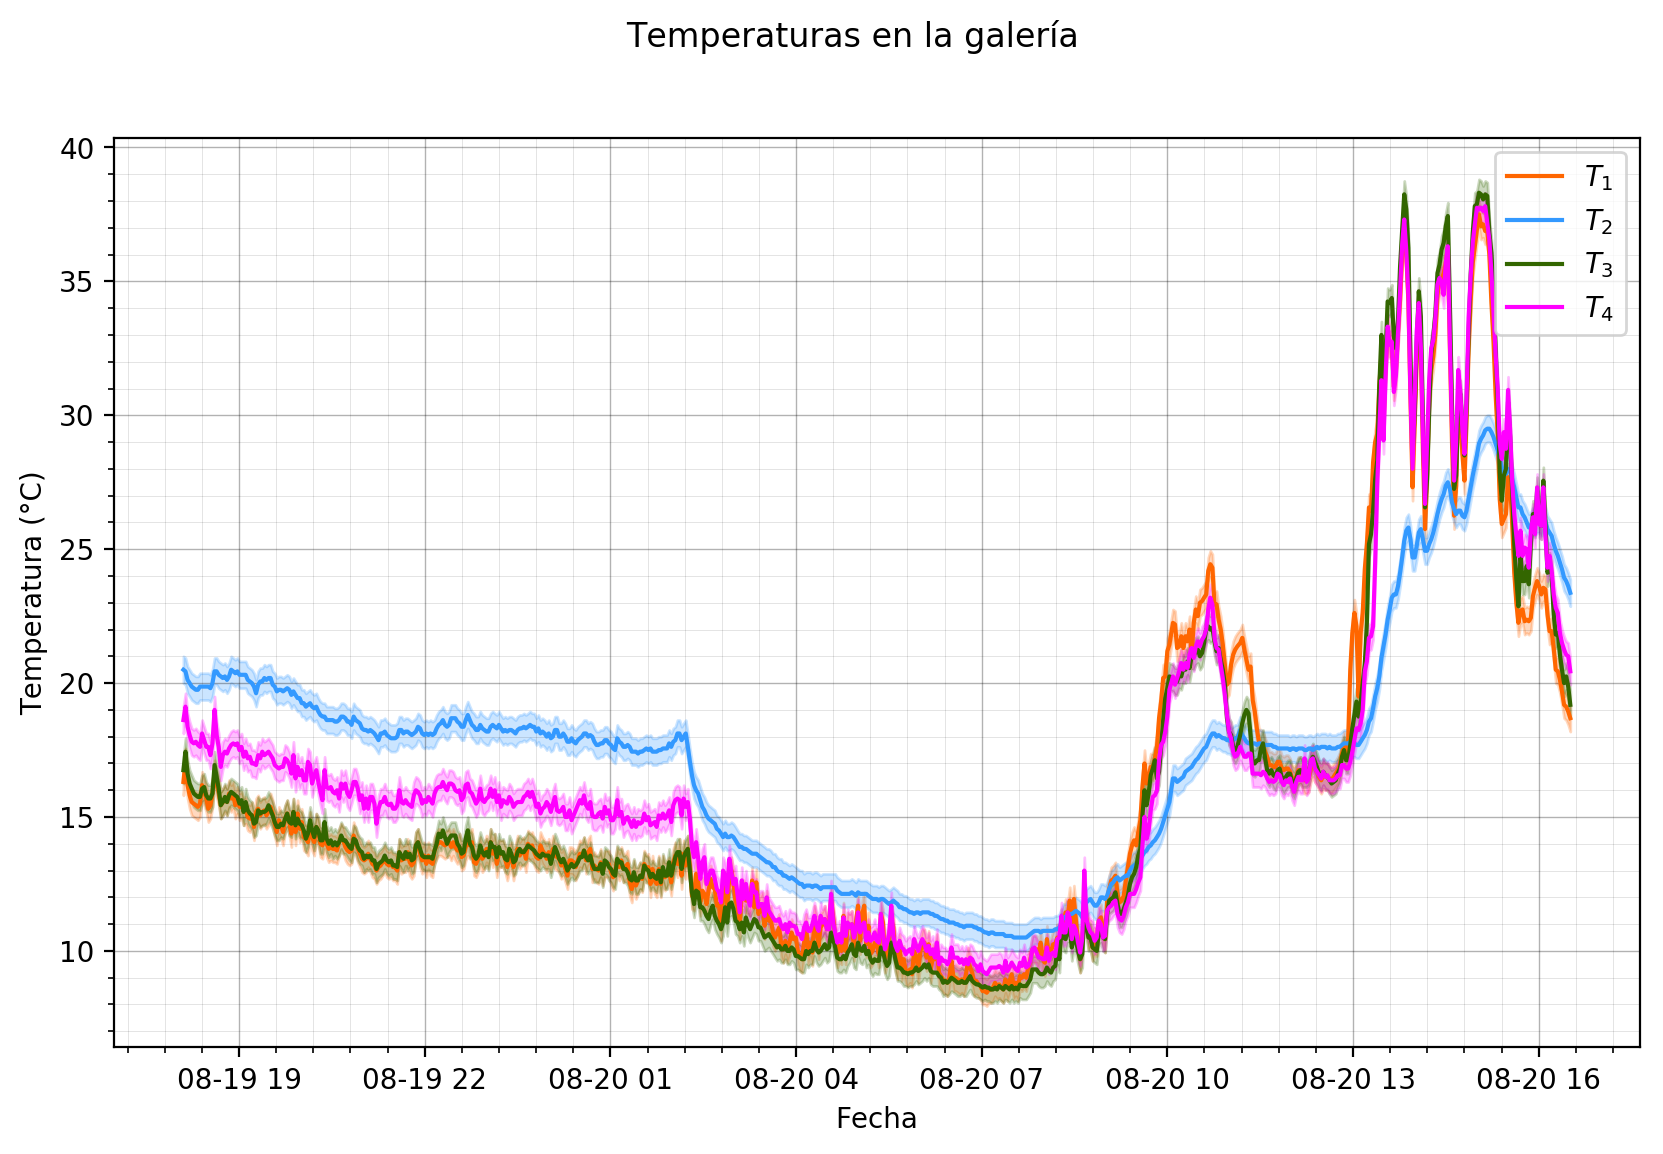
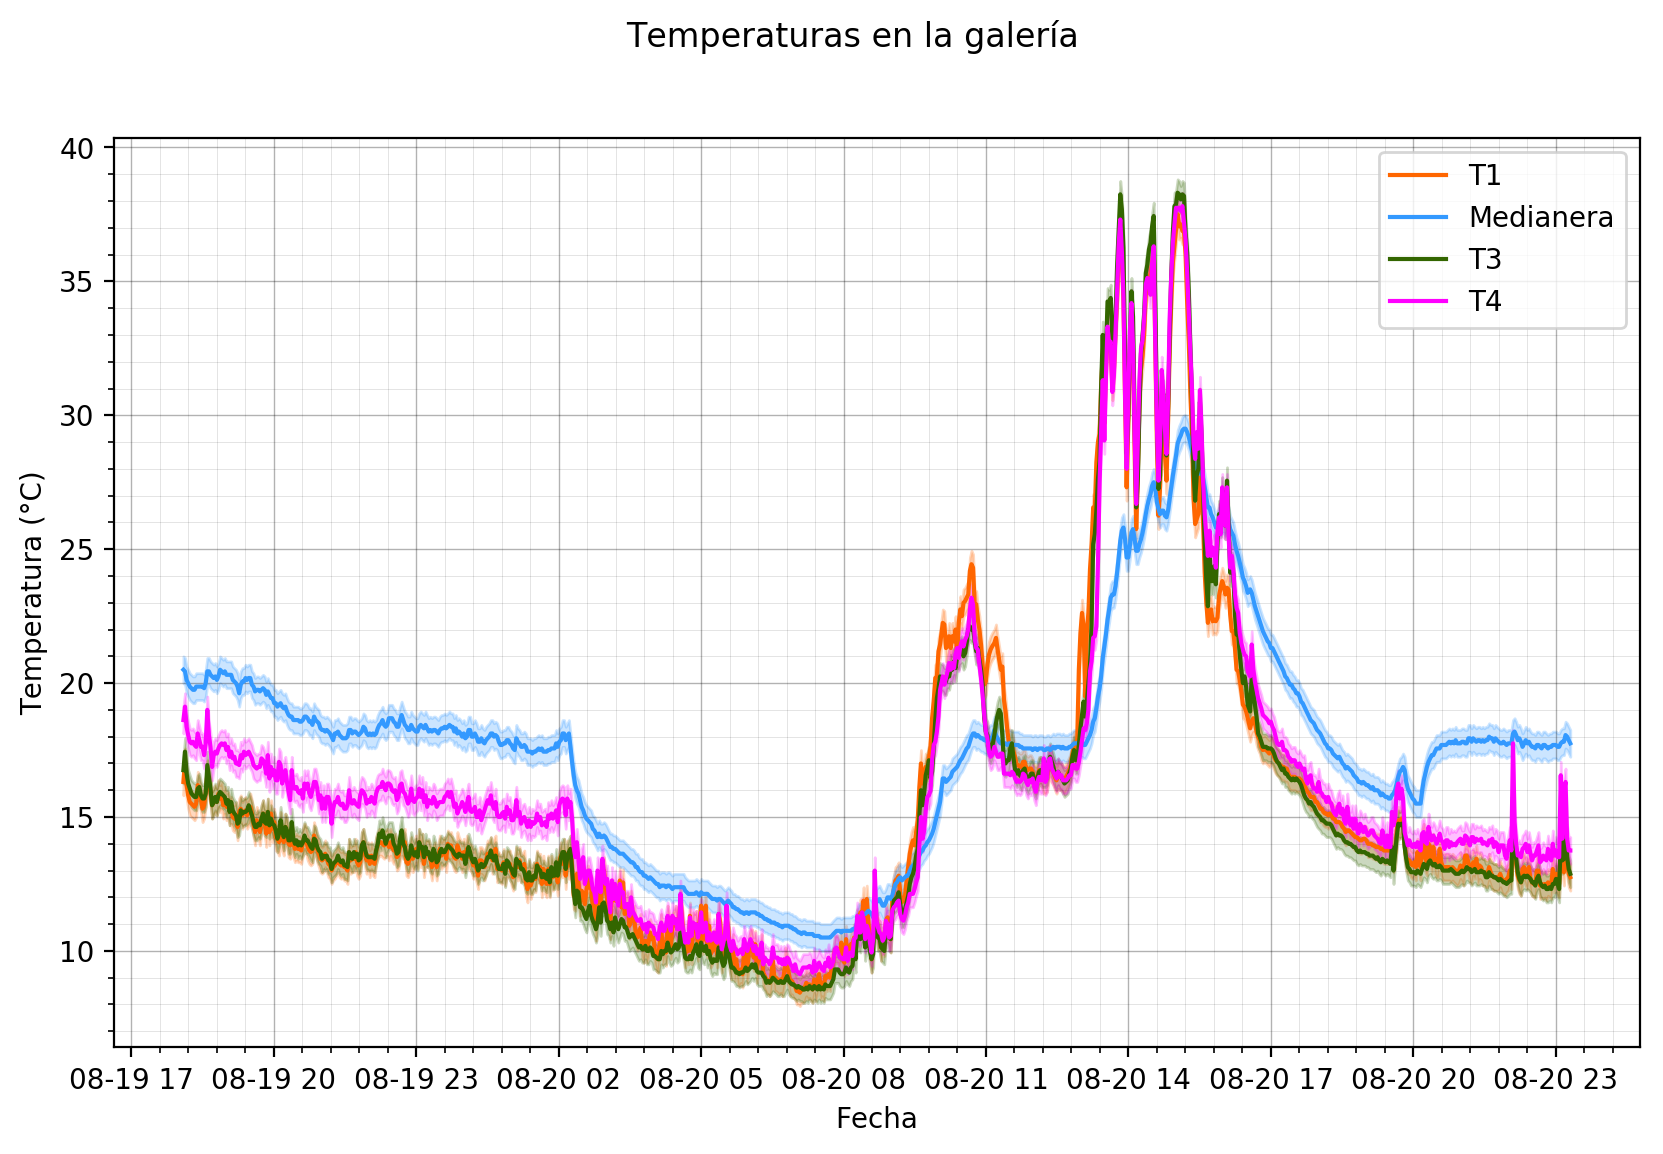
Nuevos datos. Usando estos nuevos datos logré localizar unívocamente cuál es el sensor que está contra la medianera de Lucy.

Changed region(s): [[0.092, 0.1248, 0.9814, 0.8735], [0.0307, 0.9047, 0.6133, 0.9671], [0.644, 0.9047, 0.9814, 0.9671]]

diff --git a/Python/plot_data.py b/Python/plot_data.py
@@ -5,6 +5,8 @@ import utils.my_plot_lib as mplt
 import uncertainties as unc
 from uncertainties import unumpy as unp
 
+SENSORS_LABELS = ['T1', 'Medianera', 'T3', 'T4']
+
 figs = [] # Do not touch this.
 
 # Read data ------------------------
@@ -23,7 +25,7 @@ figs.append(f)
 f.subplots_adjust(hspace=0.3) # Fine-tune figure; make subplots close to each other and hide x ticks for all but bottom plot.
 f.suptitle('Temperaturas en la galería')
 for k in range(len(temperatures)):
-	mplt.plot_yerr_filled(time, temperatures[k], axes, color=mplt.colors[k], label=r'$T_{:d}$'.format(k+1))
+	mplt.plot_yerr_filled(time, temperatures[k], axes, color=mplt.colors[k], label=SENSORS_LABELS[k])
 mplt.beauty_grid(axes)
 axes.legend()
 axes.set_xlabel('Fecha')
